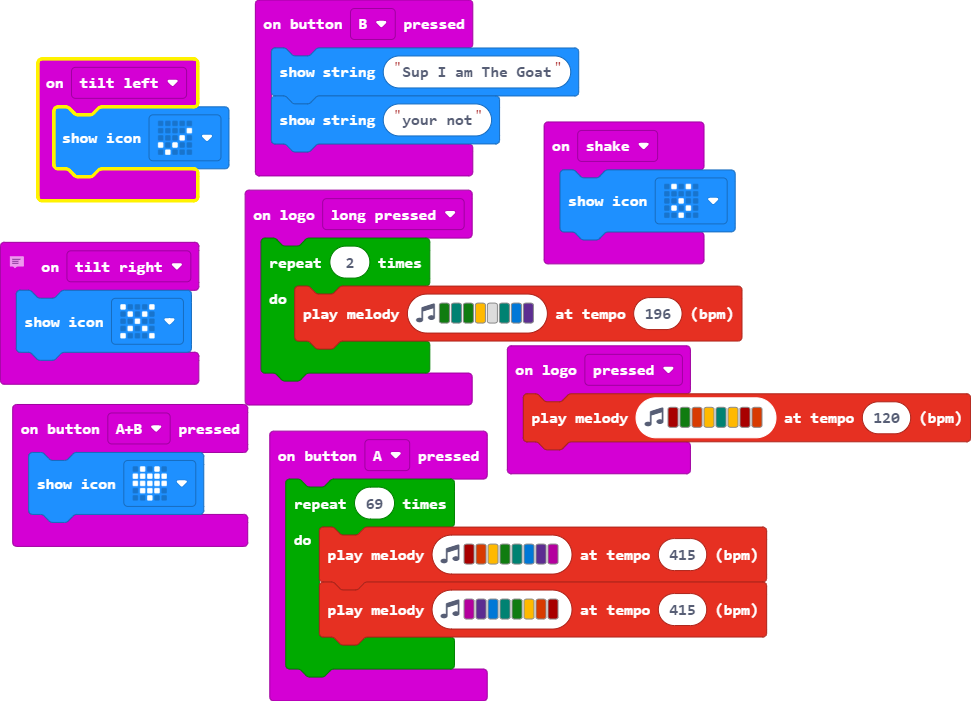
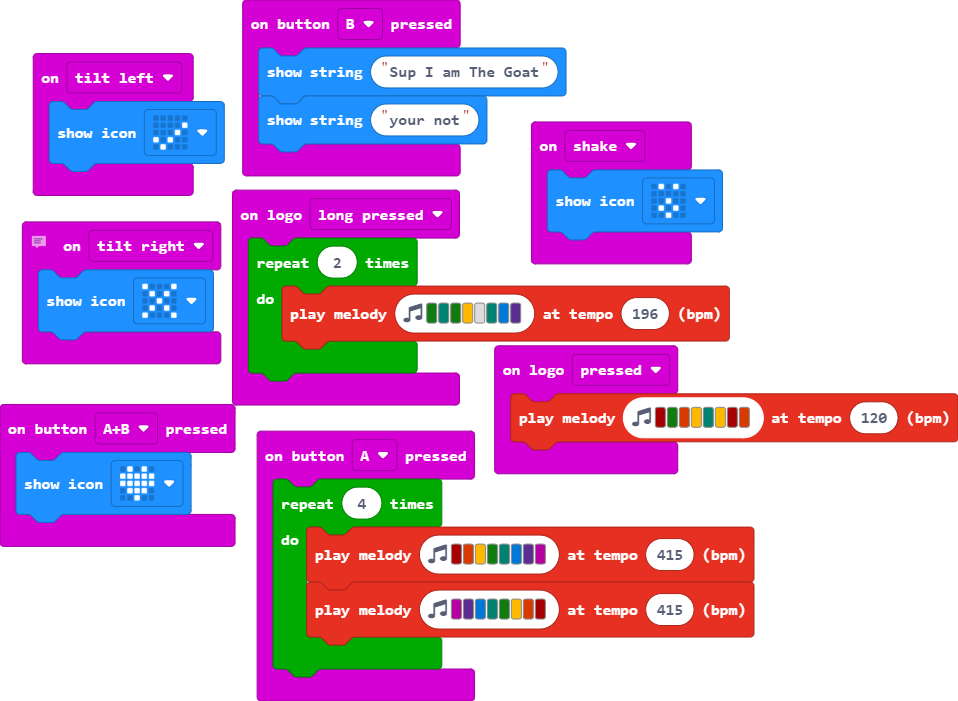
Update main.blocks, main.ts

Changed region(s): [[0.0, 0.0, 0.9384, 1.0], [0.5449, 0.1797, 0.7568, 0.3894], [0.4843, 0.9586, 0.5146, 1.0]]

diff --git a/main.ts b/main.ts
@@ -4,7 +4,7 @@ input.onLogoEvent(TouchButtonEvent.LongPressed, function () {
     }
 })
 input.onButtonPressed(Button.A, function () {
-    for (let index = 0; index < 69; index++) {
+    for (let index = 0; index < 4; index++) {
         music.playMelody("C5 B A G F E D C ", 415)
         music.playMelody("C D E F G A B C5 ", 415)
     }
